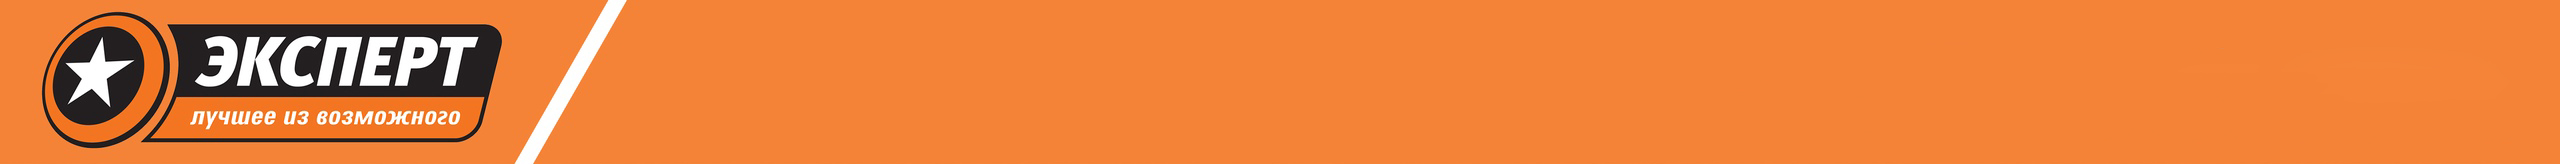
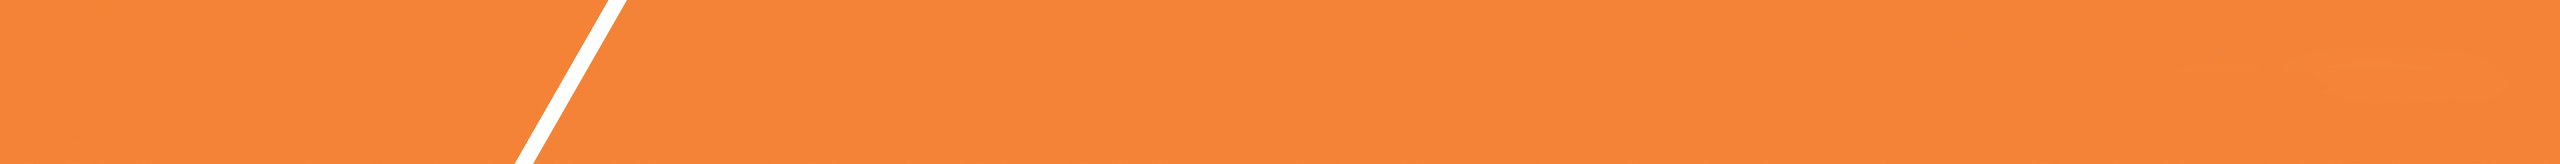
catalog, navbar

Changed region(s): [[0.0, 0.061, 0.2188, 0.9146]]

diff --git a/src/main/resources/static/js/components/Navbar.vue b/src/main/resources/static/js/components/Navbar.vue
@@ -1,12 +1,18 @@
 <template>
     <div>
-        <v-app-bar color="#343a40" dark app height="70" src="static/js/assets/img/components/navpic.jpg">
+        <v-app-bar color="#f48337" dark app height="70" src="http://www.picshare.ru/uploads/191113/6b5152mGVs.jpg">
 
-            <router-link to="/" class="mr-5">
+            <router-link to="/">
                 <v-app-bar-nav-icon></v-app-bar-nav-icon>
             </router-link>
 
-            <v-toolbar-title style="color:#e52d00;">Expert</v-toolbar-title>
+            <v-toolbar-title class="mr-5">
+                <router-link to="/">
+                    <v-img src="http://www.picshare.ru/uploads/191113/E699PhEOi3.png" contain height="60"></v-img>
+                </router-link>
+            </v-toolbar-title>
+
+            <v-spacer></v-spacer>
 
             <v-autocomplete
                     v-model="select"
@@ -23,8 +29,10 @@
                     @keyup="search()"
             ></v-autocomplete>
 
+            <v-spacer></v-spacer>
+
             <router-link to="/order" class="ml-5">
-                <v-btn>
+                <v-btn tile outlined>
                     <span>Корзина</span>
                     <v-icon>mdi-cart</v-icon>
                 </v-btn>
@@ -32,13 +40,13 @@
 
             <div v-if="!admin">
                 <router-link to="/user/cabinet" class="ml-5" v-if="auth">
-                    <v-btn>
+                    <v-btn tile outlined>
                         <span>Личный кабинет</span>
                         <v-icon>mdi-account</v-icon>
                     </v-btn>
                 </router-link>
                 <router-link to="/login" class="ml-5" v-else>
-                    <v-btn>
+                    <v-btn tile outlined>
                         <span>Вход</span>
                         <v-icon>mdi-login-variant</v-icon>
                     </v-btn>

diff --git a/src/main/resources/static/js/pages/Catalog.vue b/src/main/resources/static/js/pages/Catalog.vue
@@ -25,8 +25,10 @@
 </template>
 
 <script>
-    import CatalogGroups from "components/CatalogGroups.vue";
+    import CatalogGroups from "components/CatalogGroups.vue"
     import catalogJSON from 'assets/json/catalog.json'
+
+
     export default {
         components: {
             CatalogGroups
@@ -53,7 +55,10 @@
                     'mdi-bike',
                     'mdi-coffee',
                     'mdi-archive'
-                ]
+                ],
+                /*pics: [
+                    {navpic: require('@/assets/img/logo.png')},
+                ]*/
             }
         },
         created() {
@@ -64,7 +69,6 @@
 </script>
 <style scoped>
     .indent {
-        padding-top: 2rem;
         padding-left: 8rem;
         padding-right: 8rem;
     }
